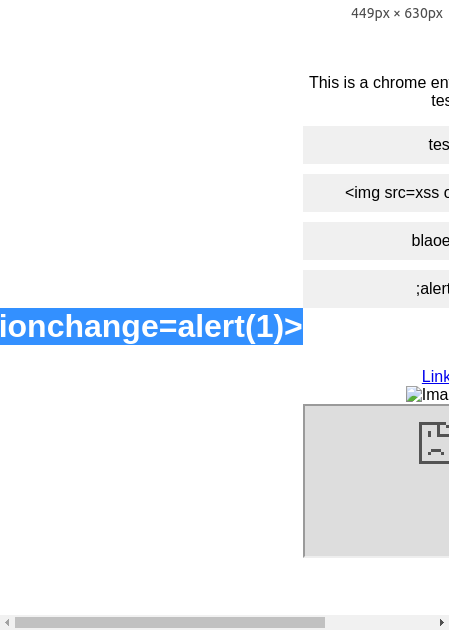
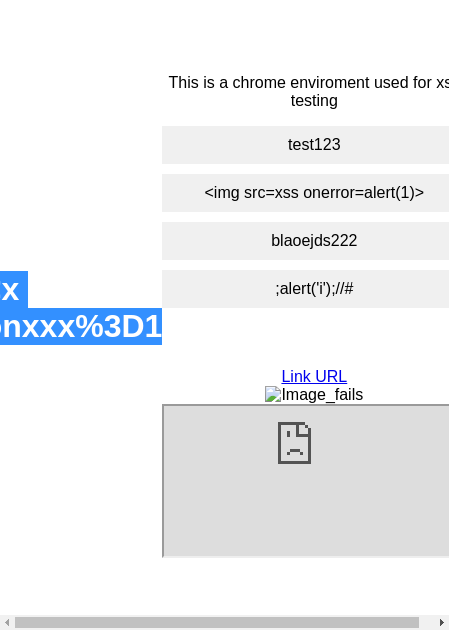
lol

diff --git a/DYNAMIC_ANALYSIS_v2/case_scenario_functions.py b/DYNAMIC_ANALYSIS_v2/case_scenario_functions.py
@@ -2839,7 +2839,7 @@ def context_menu_selectionText_N(args_tuple):
 
         # get www.example.com
         driver.get(website)
-        # driver.save_screenshot('DYNAMIC_ANALYSIS_v2/ss.png')
+        driver.save_screenshot('DYNAMIC_ANALYSIS_v2/ss.png')
 
         # set handler for example.com
         example = driver.current_window_handle
@@ -2860,7 +2860,9 @@ def context_menu_selectionText_N(args_tuple):
 
 
         for payload in payloads:
-            print(payload)
+
+            # update progress bar
+            progress_bar.update(1) 
 
             driver.switch_to.window(example)
 
@@ -2871,10 +2873,9 @@ def context_menu_selectionText_N(args_tuple):
                 time_of_injection = datetime.datetime.now().strftime("%Y-%m-%d %H:%M:%S,%f")
 
             except Exception as e:
-                print(' !!!! PAYLOAD FAILLED !!!!')
-                print('Error: ', str(e))
+                # print(' !!!! PAYLOAD FAILLED !!!!')
+                # print('Error: ', str(e))
                 continue
-
 
             target_element = driver.find_element(By.ID, 'h1_element')
 
@@ -2882,8 +2883,8 @@ def context_menu_selectionText_N(args_tuple):
                 # Select the text using JavaScript
                 driver.execute_script("window.getSelection().selectAllChildren(arguments[0]);", target_element)
             except Exception as e:
-                print(' !!!! Error Selecting Text !!!!')
-                print('Error: ', str(e))
+                # print(' !!!! Error Selecting Text !!!!')
+                # print('Error: ', str(e))
                 continue
 
 
@@ -2894,7 +2895,6 @@ def context_menu_selectionText_N(args_tuple):
 
 
                 driver.save_screenshot('DYNAMIC_ANALYSIS_v2/ss.png')
-                time.sleep(2)
 
 
                 for _ in range(6):
@@ -2904,8 +2904,8 @@ def context_menu_selectionText_N(args_tuple):
                 subprocess.call(['xdotool', 'key', 'Return'])
 
             except Exception as e:
-                print(' !!!! Error using Context Menu !!!!')
-                print('Error: ', str(e))
+                # print(' !!!! Error using Context Menu !!!!')
+                # print('Error: ', str(e))
                 continue
 
 
@@ -2916,13 +2916,13 @@ def context_menu_selectionText_N(args_tuple):
                 WebDriverWait(driver, 2).until(EC.alert_is_present())
                 alert = driver.switch_to.alert
                 alert.accept()
-                print('[example] + Alert Detected +')
+                # print('[example] + Alert Detected +')
 
-                # get time of success [1) example]
                 time_of_success = datetime.datetime.now().strftime("%Y-%m-%d %H:%M:%S,%f")
-            
+                logs.append(payload_logging("SUCCESS", source, ext_id, ext_name, url_of_injection_example, 'normal', payload, time_of_injection, time_of_success, payload_file, 'nil'))
+
             except TimeoutException:
-                print('[example] = No alerts detected =')
+                logs.append(payload_logging("FAILURE", source, ext_id, ext_name, url_of_injection_example, 'normal', payload, time_of_injection, 'nil', payload_file, 'nil'))
 
             driver.switch_to.window(extension)
 
@@ -2937,9 +2937,12 @@ def context_menu_selectionText_N(args_tuple):
                 WebDriverWait(driver, 2).until(EC.alert_is_present())
                 alert = driver.switch_to.alert
                 alert.accept()
-                print('[example] + Alert Detected +')
+                
+                time_of_success = datetime.datetime.now().strftime("%Y-%m-%d %H:%M:%S,%f")
+                logs.append(payload_logging("SUCCESS", source, ext_id, ext_name, url_of_injection_example, 'normal', payload, time_of_injection, time_of_success, payload_file, 'nil'))
+
             except TimeoutException:
-                print('[example] = No alerts detected =')
+                logs.append(payload_logging("FAILURE", source, ext_id, ext_name, url_of_injection_example, 'normal', payload, time_of_injection, 'nil', payload_file, 'nil'))
 
 
             # check for any modifications (snapshot back to original)
@@ -2948,31 +2951,32 @@ def context_menu_selectionText_N(args_tuple):
                 driver.switch_to.window(example)
                 if example_source_code != driver.page_source:
                     driver.get(website)
-                    print(f"Navigated back to '{website}' due to page source changes")
+                    # print(f"Navigated back to '{website}' due to page source changes")
 
             except:
-                print('error')
-
+                pass
 
             try: 
                 # [2] check modifications for extension
                 driver.switch_to.window(extension)
                 if extension_source_code != driver.page_source:
                     driver.get(url_path)
-                    print(f"Navigated back to '{url_path}' due to extension page source changes")
+                    # print(f"Navigated back to '{url_path}' due to extension page source changes")
 
             except:
-                print('error')
+                pass
 
     except TimeoutException:
         # Handle TimeoutException when title condition is not met
-        print("Timeout: Title was not resolved to 'Example Domain'")
+        # print("Timeout: Title was not resolved to 'Example Domain'")
+        pass
 
     except Exception as e:
         # Handle any other exceptions that occur
-        print("An error occurred:", str(e))
+        # print("An error occurred:", str(e))
+        pass
 
-
+    return logs
 
 
 

diff --git a/dynamic.py b/dynamic.py
@@ -54,6 +54,7 @@ def main(config, path_to_extension, semgrep_results):
     # new payloads
     totals, payloads = payloads_cycle(number_of_instances, percentage_of_payloads, 'DYNAMIC_ANALYSIS_v2/payloads/payload.txt')
 
+
     # preconfiguration (set active to false)
     preconfigure(path_to_extension)
 
@@ -153,7 +154,7 @@ if __name__ == '__main__':
 
     config = {
         "percentage_of_payloads" : 10,
-        "number_of_instances": 2
+        "number_of_instances": 1
     }
 
 
